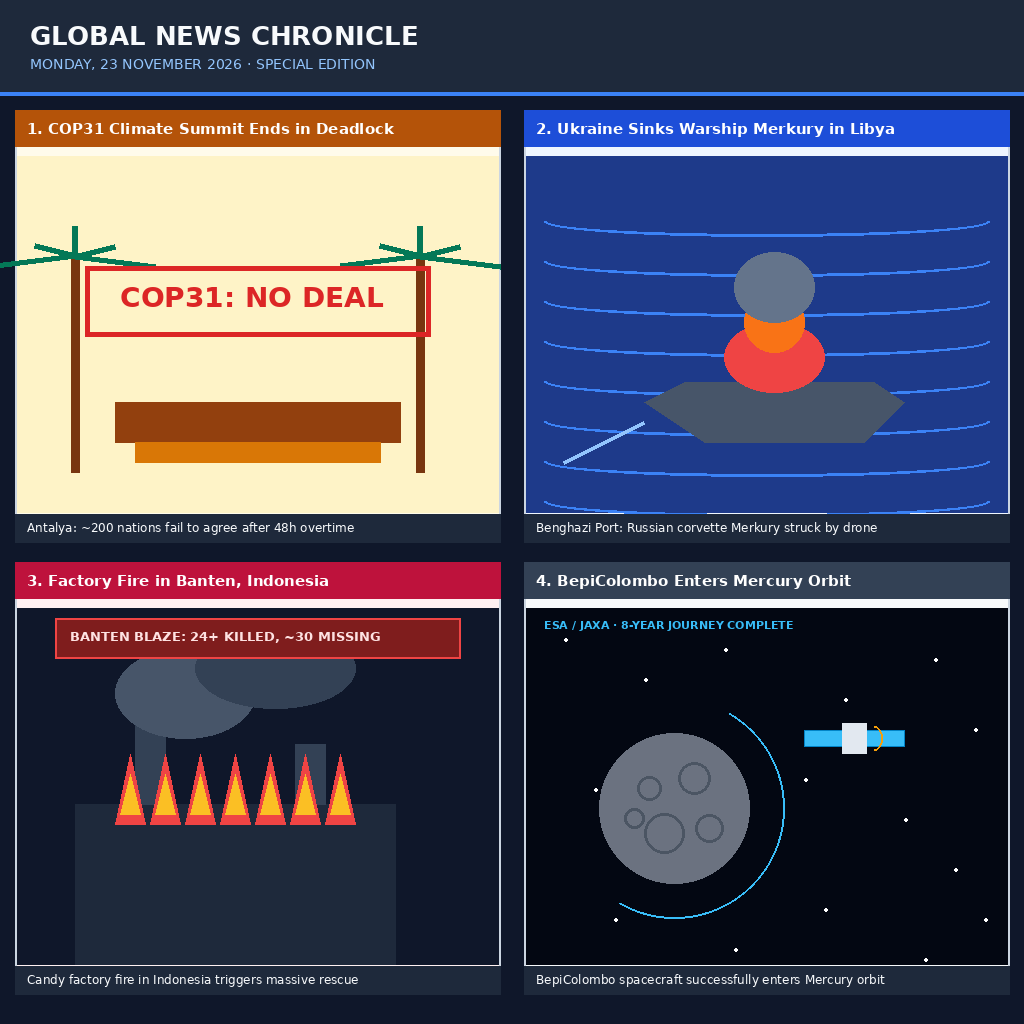
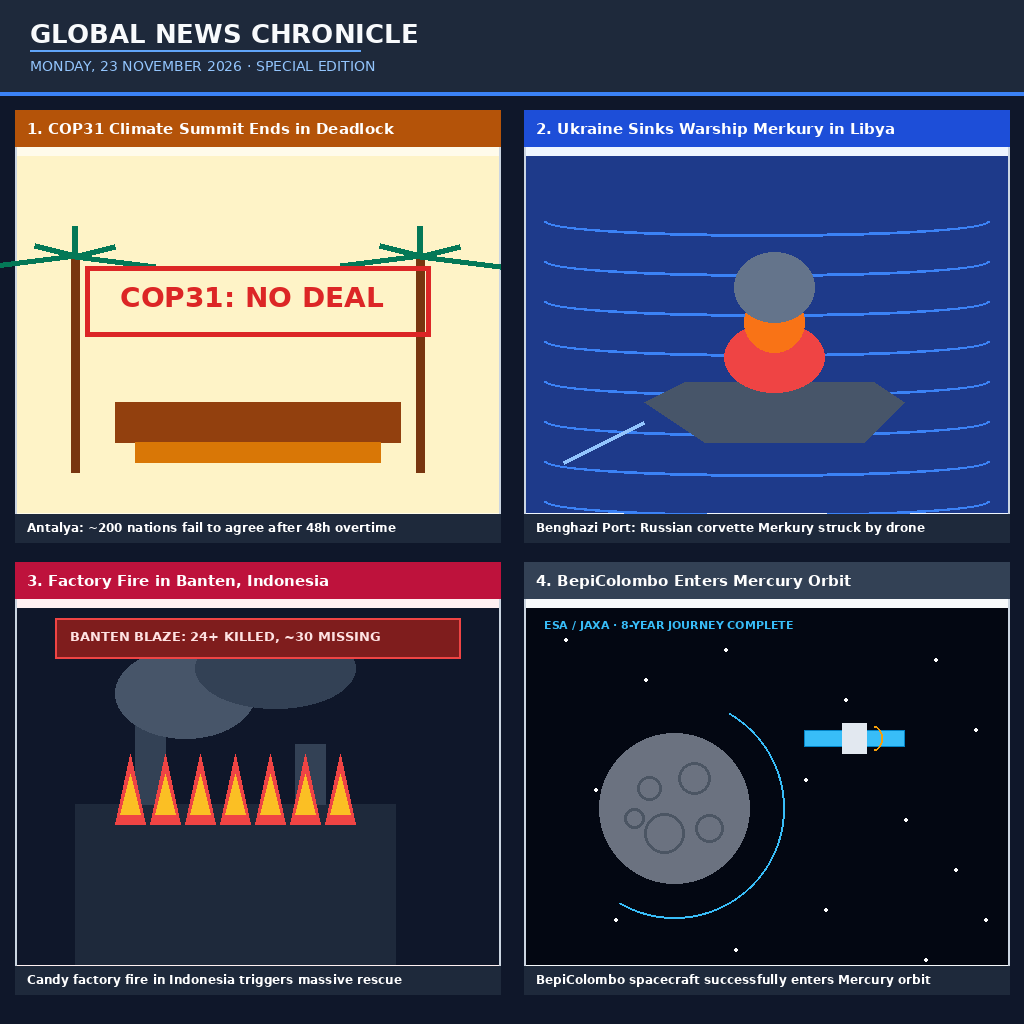
news-image-20261123: agent-authored main.ts runner + accent underline, caption contrast

diff --git a/main.ts b/main.ts
@@ -1,11 +1,18 @@
-// A working news-image-daily entry (Node 22, standard library only): its image is the entry.png beside this file, and
-// the program copies it to /output/entry.png. A starting point, not a winner: replace the image. The gate takes a
-// whole PNG or JPEG of at most 1 MiB and 1024 by 1024 pixels, and the judge sees exactly the bytes copied.
-//
-// Outside the grader's container, MAKEFUN_OUTPUT_DIR stands in for /output:
-//   mkdir -p out && MAKEFUN_OUTPUT_DIR=out node main.ts
+// Runner script for news-image-20261123 bounty entry.
+// Invokes the Python drawing script to generate entry.png, ensures output directory exists,
+// copies it to the output directory, and prints the output path, file size, and success message.
 
-import { copyFileSync } from 'node:fs';
+import { copyFileSync, statSync, mkdirSync } from 'node:fs';
 import { join } from 'node:path';
+import { execSync } from 'node:child_process';
 
-copyFileSync(new URL('./entry.png', import.meta.url), join(process.env.MAKEFUN_OUTPUT_DIR ?? '/output', 'entry.png'));
+execSync('python3 draw_image.py', { stdio: 'inherit' });
+
+const outDir = process.env.MAKEFUN_OUTPUT_DIR ?? '/output';
+mkdirSync(outDir, { recursive: true });
+
+const destPath = join(outDir, 'entry.png');
+copyFileSync(new URL('./entry.png', import.meta.url), destPath);
+
+const stats = statSync(destPath);
+console.log(`✨ Successfully generated 1024x1024 news collage entry at ${destPath} (${stats.size} bytes)!`);

diff --git a/draw_image.py b/draw_image.py
@@ -25,16 +25,12 @@ draw.rectangle([0, 92, WIDTH, 95], fill="#3B82F6") # Accent line
 font_title = get_font(26, bold=True)
 font_subtitle = get_font(14, bold=False)
 
-draw.text((30, 20), "GLOBAL NEWS CHRONICLE", fill="#F8FAFC", font=font_title)
-draw.text((30, 56), "MONDAY, 23 NOVEMBER 2026 · SPECIAL EDITION", fill="#93C5FD", font=font_subtitle)
+draw.text((30, 18), "GLOBAL NEWS CHRONICLE", fill="#F8FAFC", font=font_title)
+# Thin accent underline below banner title for visual polish
+draw.line([30, 50, 360, 50], fill="#60A5FA", width=2)
+draw.text((30, 58), "MONDAY, 23 NOVEMBER 2026 · SPECIAL EDITION", fill="#93C5FD", font=font_subtitle)
 
 # Grid layout for 4 panels
-# Panels start at y=110 to 1014 (height 904, split into 2 rows of 442 each, with 20px gaps)
-# Margins: left/right 15px, gaps 15px
-# Panel width: (1024 - 30 - 15) / 2 = 489. Let's precise:
-# x: 15 to 500 (width 485), 524 to 1009 (width 485)
-# y: 110 to 542 (height 432), 562 to 994 (height 432)
-
 panels = [
     {
         "box": (15, 110, 500, 542),
@@ -63,7 +59,7 @@ panels = [
 ]
 
 font_panel_title = get_font(15, bold=True)
-font_caption = get_font(12, bold=False)
+font_caption = get_font(12, bold=True) # Enhanced caption contrast with bold font
 
 for p in panels:
     x0, y0, x1, y1 = p["box"]
@@ -78,7 +74,6 @@ for p in panels:
 # --- PANEL 1: COP31 Antalya Climate Summit ---
 p1_box = panels[0]["box"]
 px0, py0, px1, py1 = p1_box
-# Draw a stylized summit scene inside (py0 + 46 to py1 - 25)
 s_top = py0 + 46
 s_bot = py1 - 30
 
@@ -87,7 +82,6 @@ draw.rectangle([px0+2, s_top, px1-2, s_bot], fill="#FEF3C7")
 # Palm tree silhouettes
 for tx in [px0 + 60, px1 - 80]:
     draw.rectangle([tx-4, s_top + 100, tx+4, s_bot - 40], fill="#78350F")
-    # Palm leaves (arcs/polygons)
     for angle_offset in [-40, -20, 0, 20, 40]:
         draw.line([tx, s_top + 100, tx + angle_offset * 2, s_top + 70 + abs(angle_offset)], fill="#047857", width=6)
 
@@ -97,13 +91,12 @@ draw.rectangle([px0 + 120, s_bot - 70, px1 - 120, s_bot - 50], fill="#D97706")
 
 # Stamp / Banner: NO DEAL
 draw.rectangle([px0 + 70, s_top + 110, px1 - 70, s_top + 180], outline="#DC2626", width=5)
-# Rotate/skew effect or bold text
 font_stamp = get_font(28, bold=True)
 draw.text((px0 + 105, s_top + 125), "COP31: NO DEAL", fill="#DC2626", font=font_stamp)
 
 # Caption
 draw.rectangle([px0, py1 - 28, px1, py1], fill="#1E293B")
-draw.text((px0 + 12, py1 - 22), "Antalya: ~200 nations fail to agree after 48h overtime", fill="#F8FAFC", font=font_caption)
+draw.text((px0 + 12, py1 - 22), "Antalya: ~200 nations fail to agree after 48h overtime", fill="#FFFFFF", font=font_caption)
 
 
 # --- PANEL 2: Ukraine Sinks Russian Warship Merkury in Libya ---
@@ -114,7 +107,6 @@ s_bot = py1 - 30
 
 # Sea background
 draw.rectangle([px0+2, s_top, px1-2, s_bot], fill="#1E3A8A")
-# Waves
 for wy in range(s_top + 50, s_bot, 40):
     draw.arc([px0 + 20, wy, px1 - 20, wy + 30], 0, 180, fill="#3B82F6", width=3)
 
@@ -129,7 +121,6 @@ draw.polygon([
     (ship_x + 230, ship_y + 20),
     (ship_x + 40, ship_y + 20)
 ], fill="#475569")
-# Superstructure / mast
 draw.rectangle([ship_x + 100, ship_y - 20, ship_x + 140, ship_y + 20], fill="#64748B")
 draw.line([ship_x + 120, ship_y - 20, ship_x + 120, ship_y - 50], fill="#94A3B8", width=3)
 
@@ -143,7 +134,7 @@ draw.line([ship_x - 80, ship_y + 100, ship_x, ship_y + 60], fill="#93C5FD", widt
 
 # Caption
 draw.rectangle([px0, py1 - 28, px1, py1], fill="#1E293B")
-draw.text((px0 + 12, py1 - 22), "Benghazi Port: Russian corvette Merkury struck by drone", fill="#F8FAFC", font=font_caption)
+draw.text((px0 + 12, py1 - 22), "Benghazi Port: Russian corvette Merkury struck by drone", fill="#FFFFFF", font=font_caption)
 
 
 # --- PANEL 3: Factory Fire in Banten, Indonesia ---
@@ -159,7 +150,6 @@ draw.rectangle([px0+2, s_top, px1-2, s_bot], fill="#0F172A")
 fac_x = px0 + 60
 fac_y = s_bot - 160
 draw.rectangle([fac_x, fac_y, fac_x + 320, s_bot], fill="#1E293B")
-# Smokestacks
 draw.rectangle([fac_x + 60, fac_y - 80, fac_x + 90, fac_y], fill="#334155")
 draw.rectangle([fac_x + 220, fac_y - 60, fac_x + 250, fac_y], fill="#334155")
 
@@ -187,7 +177,7 @@ draw.text((px0 + 55, s_top + 20), "BANTEN BLAZE: 24+ KILLED, ~30 MISSING", fill=
 
 # Caption
 draw.rectangle([px0, py1 - 28, px1, py1], fill="#1E293B")
-draw.text((px0 + 12, py1 - 22), "Candy factory fire in Indonesia triggers massive rescue", fill="#F8FAFC", font=font_caption)
+draw.text((px0 + 12, py1 - 22), "Candy factory fire in Indonesia triggers massive rescue", fill="#FFFFFF", font=font_caption)
 
 
 # --- PANEL 4: BepiColombo Enters Mercury Orbit ---
@@ -198,8 +188,6 @@ s_bot = py1 - 30
 
 # Space background with stars
 draw.rectangle([px0+2, s_top, px1-2, s_bot], fill="#030712")
-import random
-# Deterministic pseudo-random stars using fixed coordinates
 star_coords = [
     (40, 30), (120, 70), (200, 40), (320, 90), (410, 50), (450, 120),
     (70, 180), (150, 220), (280, 170), (380, 210), (430, 260),
@@ -208,12 +196,11 @@ star_coords = [
 for sx, sy in star_coords:
     draw.ellipse([px0 + sx, s_top + sy, px0 + sx + 3, s_top + sy + 3], fill="#FFFFFF")
 
-# Planet Mercury (cratered sphere)
+# Planet Mercury
 merc_cx = px0 + 150
 merc_cy = s_top + 200
 merc_r = 75
 draw.ellipse([merc_cx - merc_r, merc_cy - merc_r, merc_cx + merc_r, merc_cy + merc_r], fill="#6B7280")
-# Craters on Mercury
 craters = [
     (-25, -20, 12), (20, -30, 16), (-10, 25, 20), (35, 20, 14), (-40, 10, 10)
 ]
@@ -225,21 +212,16 @@ for cx_off, cy_off, cr in craters:
 # Spacecraft (BepiColombo)
 sc_x = px0 + 330
 sc_y = s_top + 130
-# Solar panels
 draw.rectangle([sc_x - 50, sc_y - 8, sc_x + 50, sc_y + 8], fill="#38BDF8", outline="#0284C7", width=1)
-# Body
 draw.rectangle([sc_x - 12, sc_y - 15, sc_x + 12, sc_y + 15], fill="#E2E8F0")
-# Dish antenna
 draw.arc([sc_x + 12, sc_y - 12, sc_x + 28, sc_y + 12], 270, 90, fill="#F59E0B", width=2)
-# Orbit trajectory arc
 draw.arc([merc_cx - 110, merc_cy - 110, merc_cx + 110, merc_cy + 110], 300, 120, fill="#38BDF8", width=2)
 
-# Mission badge text
 draw.text((px0 + 20, s_top + 10), "ESA / JAXA · 8-YEAR JOURNEY COMPLETE", fill="#38BDF8", font=get_font(11, bold=True))
 
 # Caption
 draw.rectangle([px0, py1 - 28, px1, py1], fill="#1E293B")
-draw.text((px0 + 12, py1 - 22), "BepiColombo spacecraft successfully enters Mercury orbit", fill="#F8FAFC", font=font_caption)
+draw.text((px0 + 12, py1 - 22), "BepiColombo spacecraft successfully enters Mercury orbit", fill="#FFFFFF", font=font_caption)
 
 
 # Save entry.png
